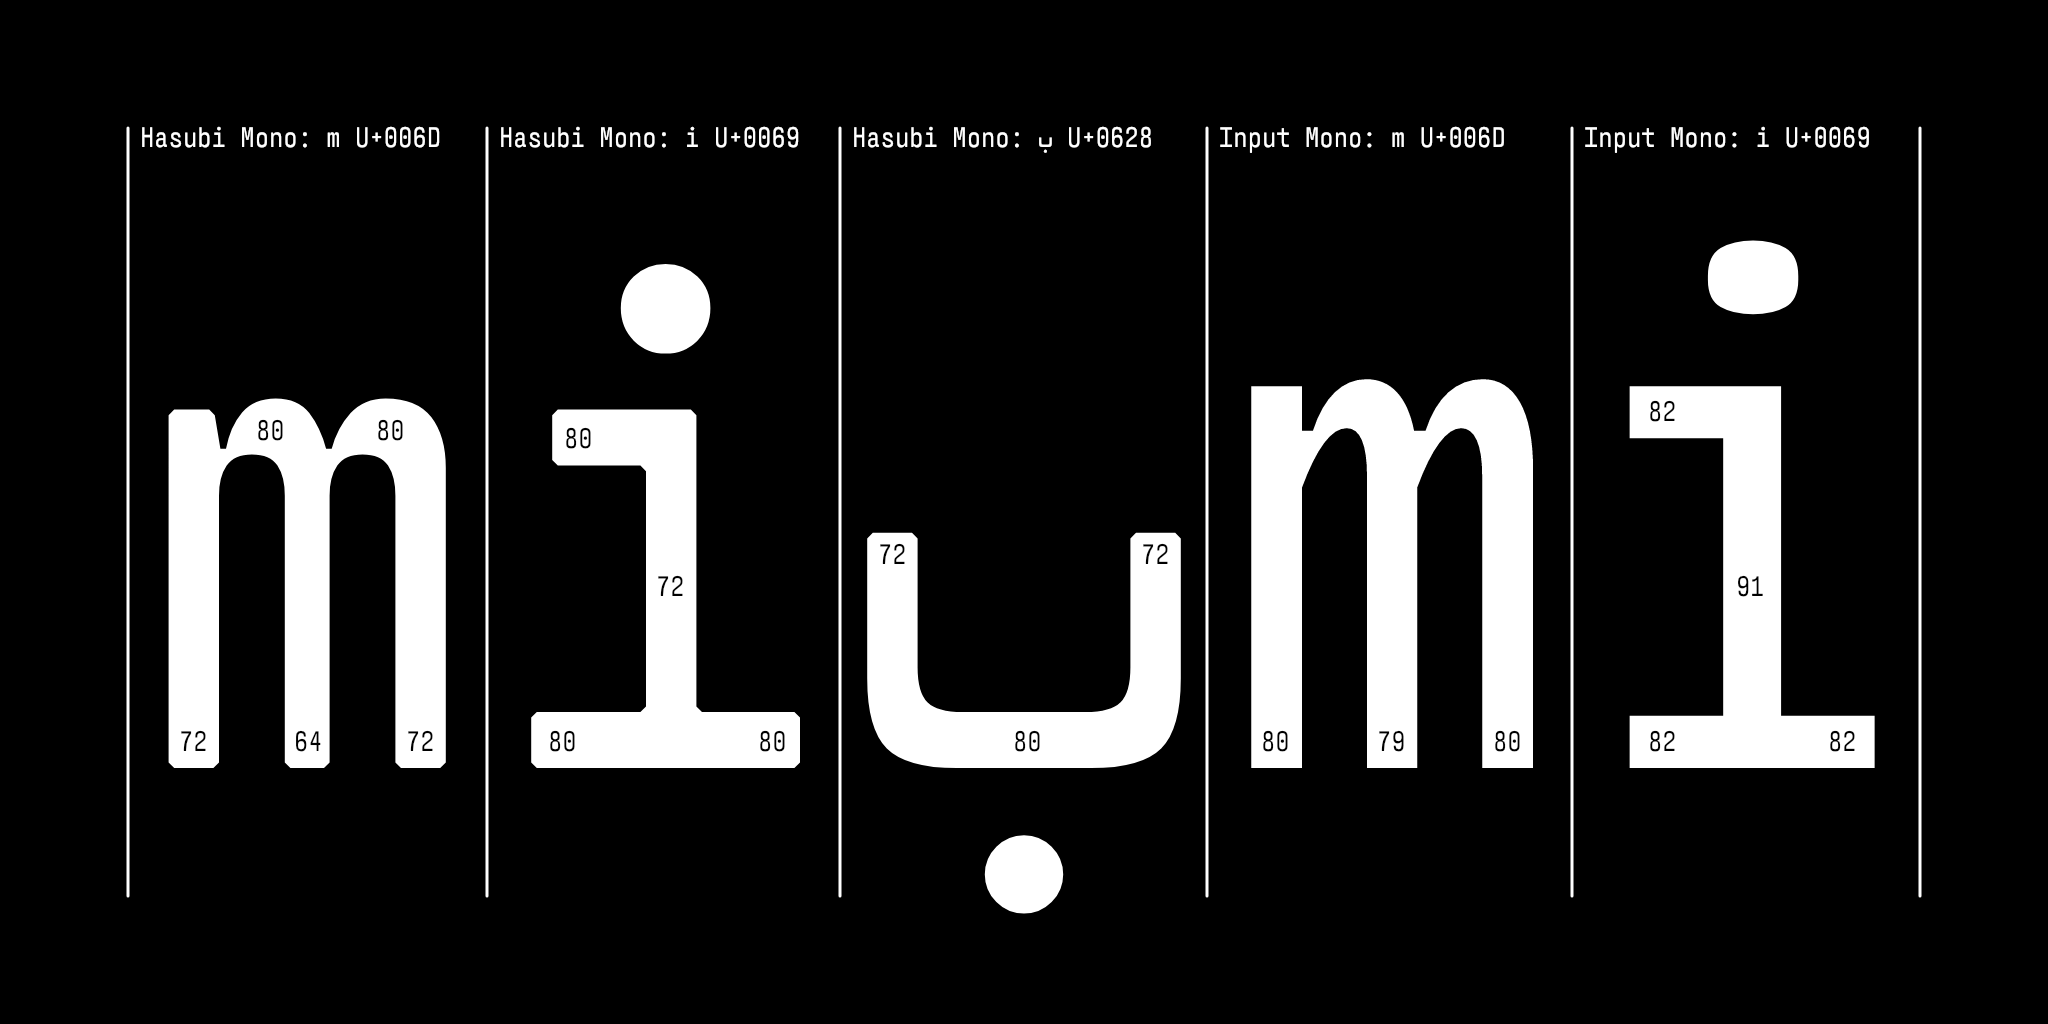
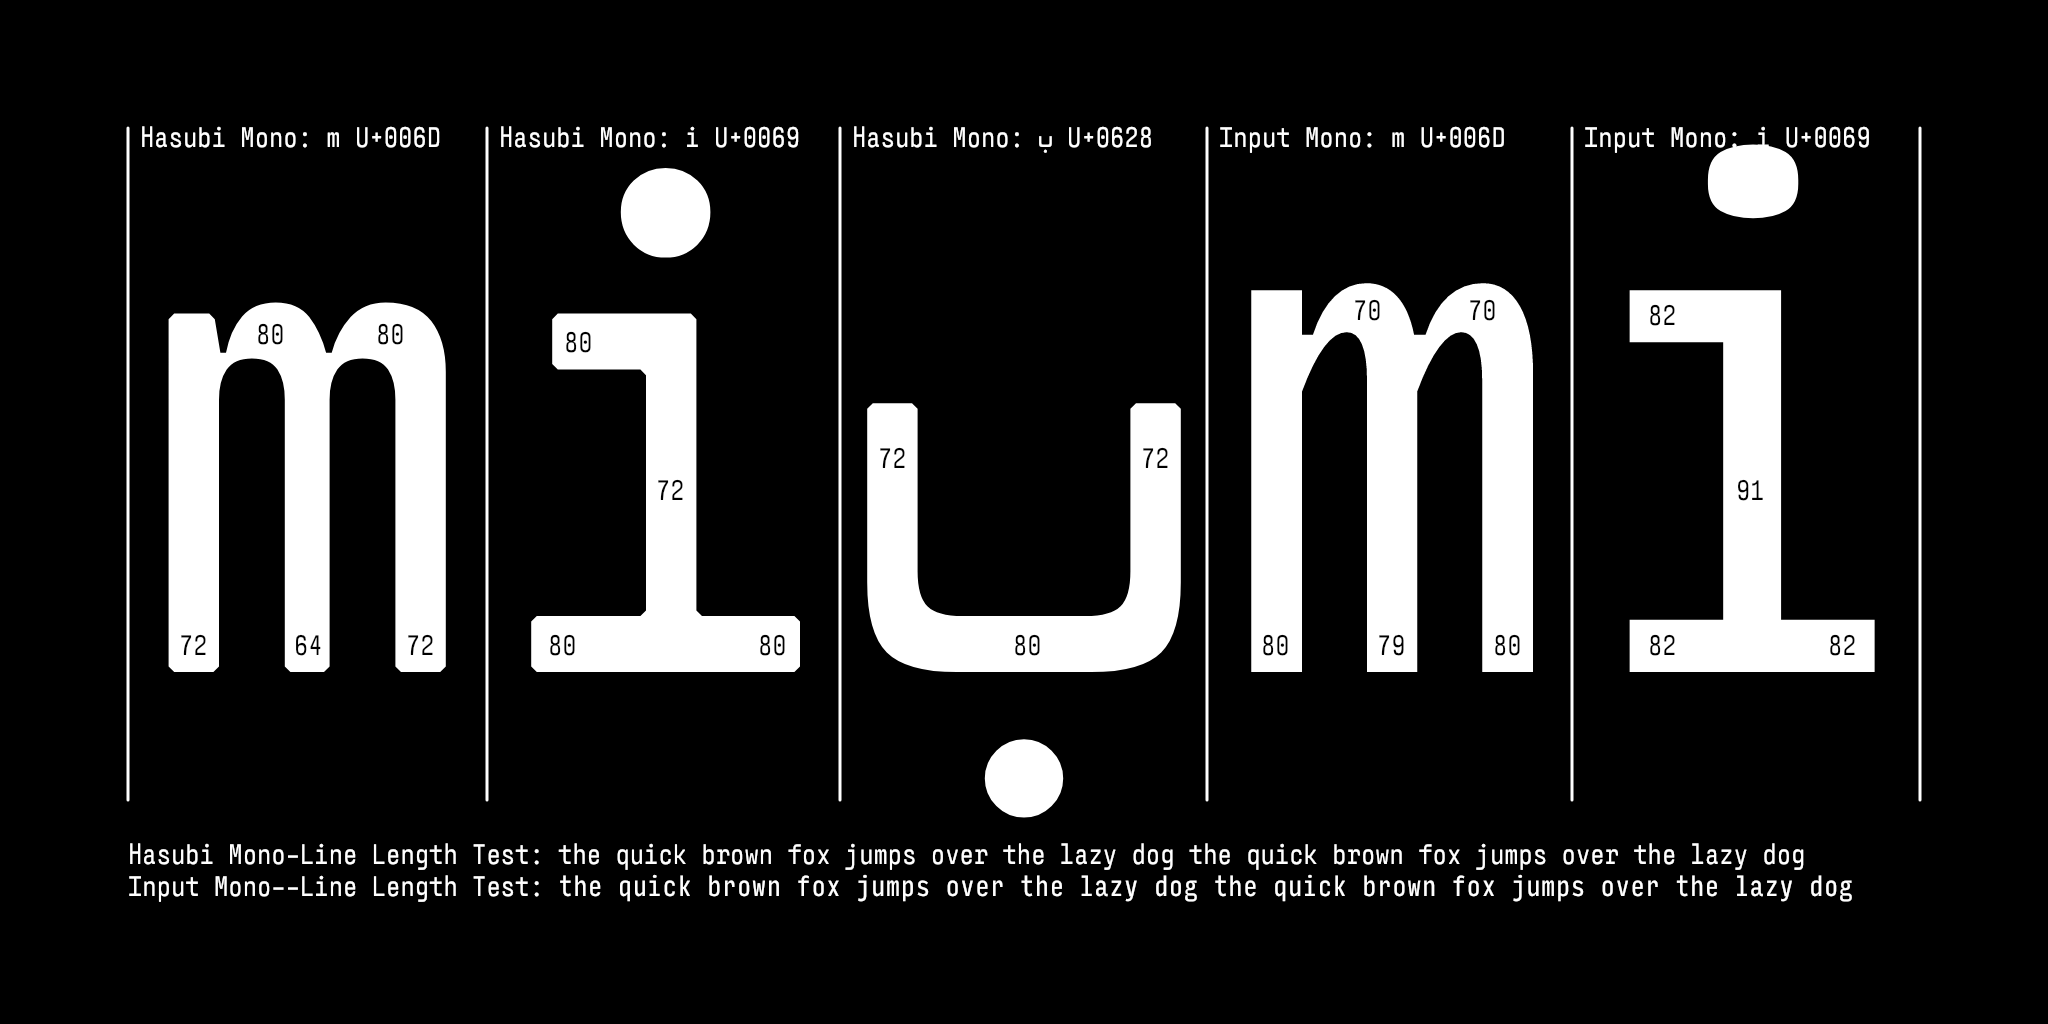
Update main README images

diff --git a/documentation/drawbot/info-image-wide-001.py b/documentation/drawbot/info-image-wide-001.py
@@ -19,10 +19,10 @@ import argparse
 
 # Constants, these are the main "settings" for the image
 WIDTH, HEIGHT, MARGIN, FRAMES = 2048, 1024, 128, 1
-FONT_PATH = "specimen-fonts/Hasubi-Mono[wght].ttf"
-INPUT_FONT = "specimen-fonts/InputMonoCompressed-Regular.ttf"
+FONT_PATH = "fonts/variable/Hasubi-Mono[wght].ttf"
+INPUT_FONT = "documentation/drawbot/specimen-fonts/InputMonoCompressed-Regular.ttf"
 FONT_LICENSE = "OFL v1.1"
-AUXILIARY_FONT = "specimen-fonts/Hasubi-Mono[wght].ttf"
+AUXILIARY_FONT = "fonts/variable/Hasubi-Mono[wght].ttf"
 AUXILIARY_FONT_SIZE = 48
 BIG_TEXT_A = "miب"
 BIG_TEXT_B = "m"
@@ -31,6 +31,7 @@ BIG_TEXT_FONT_SIZE = 1024/5.85
 BIG_TEXT_SIDE_MARGIN = MARGIN * 1
 BIG_TEXT_BOTTOM_MARGIN = MARGIN * 5.05
 GRID_VIEW = False # Change this to "True" for a grid overlay
+#GRID_VIEW = True # Change this to "True" for a grid overlay
 
 # Handel the "--output" flag
 # For example: $ python3 documentation/image1.py --output documentation/image1.png
@@ -102,12 +103,12 @@ def draw_main_text():
     fontVariations(wght = 400)
 
     fontSize(512+128+60)
-    text(BIG_TEXT_A, (MARGIN, 256))
+    text(BIG_TEXT_A, (MARGIN, 256+64+32))
 
     font(INPUT_FONT)
     fontSize(512+128+60)
-    text(BIG_TEXT_B, (MARGIN+512+256+310, 256))
-    text(BIG_TEXT_C, (MARGIN+512+256+670, 256))
+    text(BIG_TEXT_B, (MARGIN+512+256+310, 256+64+32))
+    text(BIG_TEXT_C, (MARGIN+512+256+670, 256+64+32))
 
 
 # Draw Red lines
@@ -121,31 +122,32 @@ def draw_red_lines():
 
     #line((MARGIN+40, MARGIN+110), (MARGIN+90, MARGIN+110))
     stroke(None)
-    text("72", (MARGIN+51, MARGIN+145), align="left")
-    text("64", (MARGIN+166, MARGIN+145), align="left")
-    text("72", (MARGIN+278, MARGIN+145), align="left")
-    text("80", (MARGIN+248, MARGIN+456), align="left")
-    text("80", (MARGIN+128, MARGIN+456), align="left")
+    text("72", (MARGIN+51,  MARGIN+145+96), align="left")
+    text("64", (MARGIN+166, MARGIN+145+96), align="left")
+    text("72", (MARGIN+278, MARGIN+145+96), align="left")
+    text("80", (MARGIN+248, MARGIN+456+96), align="left")
+    text("80", (MARGIN+128, MARGIN+456+96), align="left")
+
+    text("80", (MARGIN+436, MARGIN+448+96), align="left")
+    text("72", (MARGIN+528, MARGIN+300+96), align="left")
+    text("80", (MARGIN+420, MARGIN+145+96), align="left")
+    text("80", (MARGIN+630, MARGIN+145+96), align="left")
+
+    text("72", (MARGIN+750,  MARGIN+332+96), align="left")
+    text("80", (MARGIN+885,  MARGIN+145+96), align="left")
+    text("72", (MARGIN+1013, MARGIN+332+96), align="left")
+
+    text("80", (MARGIN+1133, MARGIN+145+96), align="left")
+    text("79", (MARGIN+1249, MARGIN+145+96), align="left")
+    text("70", (MARGIN+1225, MARGIN+480+96), align="left")
+    text("70", (MARGIN+1340, MARGIN+480+96), align="left")
+    text("80", (MARGIN+1365, MARGIN+145+96), align="left")
 
 
-    text("80", (MARGIN+436, MARGIN+448), align="left")
-    text("72", (MARGIN+528, MARGIN+300), align="left")
-    text("80", (MARGIN+420, MARGIN+145), align="left")
-    text("80", (MARGIN+630, MARGIN+145), align="left")
-
-    text("72", (MARGIN+750, MARGIN+332), align="left")
-    text("80", (MARGIN+885, MARGIN+145), align="left")
-    text("72", (MARGIN+1013, MARGIN+332), align="left")
-
-    text("80", (MARGIN+1133, MARGIN+145), align="left")
-    text("79", (MARGIN+1249, MARGIN+145), align="left")
-    text("80", (MARGIN+1365, MARGIN+145), align="left")
-
-
-    text("82", (MARGIN+1520, MARGIN+145), align="left")
-    text("82", (MARGIN+1520, MARGIN+475), align="left")
-    text("91", (MARGIN+1608, MARGIN+300), align="left")
-    text("82", (MARGIN+1700, MARGIN+145), align="left")
+    text("82", (MARGIN+1520, MARGIN+145+96), align="left")
+    text("82", (MARGIN+1520, MARGIN+475+96), align="left")
+    text("91", (MARGIN+1608, MARGIN+300+96), align="left")
+    text("82", (MARGIN+1700, MARGIN+145+96), align="left")
 
     fill(1,0,0)
     stroke(1,0,0)
@@ -158,12 +160,12 @@ def draw_white_lines():
     stroke(1)
     strokeWidth(3)
     lineCap("round")
-    line((MARGIN, MARGIN), (MARGIN, HEIGHT - MARGIN))
-    line((MARGIN+(359*1), MARGIN), (MARGIN+(359*1), HEIGHT - MARGIN))
-    line((MARGIN+(359*2)-6, MARGIN), (MARGIN+(359*2)-6, HEIGHT - MARGIN))
-    line((MARGIN+(359*3)+2, MARGIN), (MARGIN+(359*3)+2, HEIGHT - MARGIN))
-    line((MARGIN+(359*4)+8, MARGIN), (MARGIN+(359*4)+8, HEIGHT - MARGIN))
-    line((WIDTH-MARGIN, MARGIN), (WIDTH-MARGIN, HEIGHT - MARGIN))
+    line((MARGIN, MARGIN+96), (MARGIN, HEIGHT - MARGIN))
+    line((MARGIN+(359*1), MARGIN+96), (MARGIN+(359*1), HEIGHT - MARGIN))
+    line((MARGIN+(359*2)-6, MARGIN+96), (MARGIN+(359*2)-6, HEIGHT - MARGIN))
+    line((MARGIN+(359*3)+2, MARGIN+96), (MARGIN+(359*3)+2, HEIGHT - MARGIN))
+    line((MARGIN+(359*4)+8, MARGIN+96), (MARGIN+(359*4)+8, HEIGHT - MARGIN))
+    line((WIDTH-MARGIN, MARGIN+96), (WIDTH-MARGIN, HEIGHT - MARGIN))
     stroke(None)
 
 # Draw text describing the font and it's git status & repo URL
@@ -177,6 +179,11 @@ def draw_auxiliary_text():
     text("Input Mono: m U+006D", (MARGIN+(359*3)+2+12, HEIGHT-MARGIN-19), align="left")
     text("Input Mono: i U+0069", (MARGIN+(359*4)+8+12, HEIGHT-MARGIN-19), align="left")
 
+
+    text("Hasubi Mono-Line Length Test: the quick brown fox jumps over the lazy dog the quick brown fox jumps over the lazy dog", (MARGIN, MARGIN+32), align="left")
+    text("Input Mono--Line Length Test: ", (MARGIN, MARGIN), align="left")
+    font(INPUT_FONT)
+    text("the quick brown fox jumps over the lazy dog the quick brown fox jumps over the lazy dog", (MARGIN+430, MARGIN), align="left")
 
 # Build and save the image
 if __name__ == "__main__":

diff --git a/documentation/drawbot/wide-image-003.py b/documentation/drawbot/wide-image-003.py
@@ -80,7 +80,7 @@ def draw_background():
 
 
 # Draw main text
-GRID_VIEW = True
+#GRID_VIEW = True
 def draw_main_text():
     fill(1)
     stroke(None)

diff --git a/README.md b/README.md
@@ -20,7 +20,10 @@ Hasubi Mono (حاسوبي مونو) is an  condensed horizontal contrast monospa
 
 ![Sample Image](documentation/drawbot/wide-image-002.png)
 ![Sample Image](documentation/drawbot/wide-image-001.png)
+![Sample Image](documentation/drawbot/wide-image-003.png)
 ![Sample Image](documentation/drawbot/wide-image-004.png)
+
+![Sample Image](documentation/drawbot/info-image-wide-001.png)
 
 
 ## Gaps Axis
